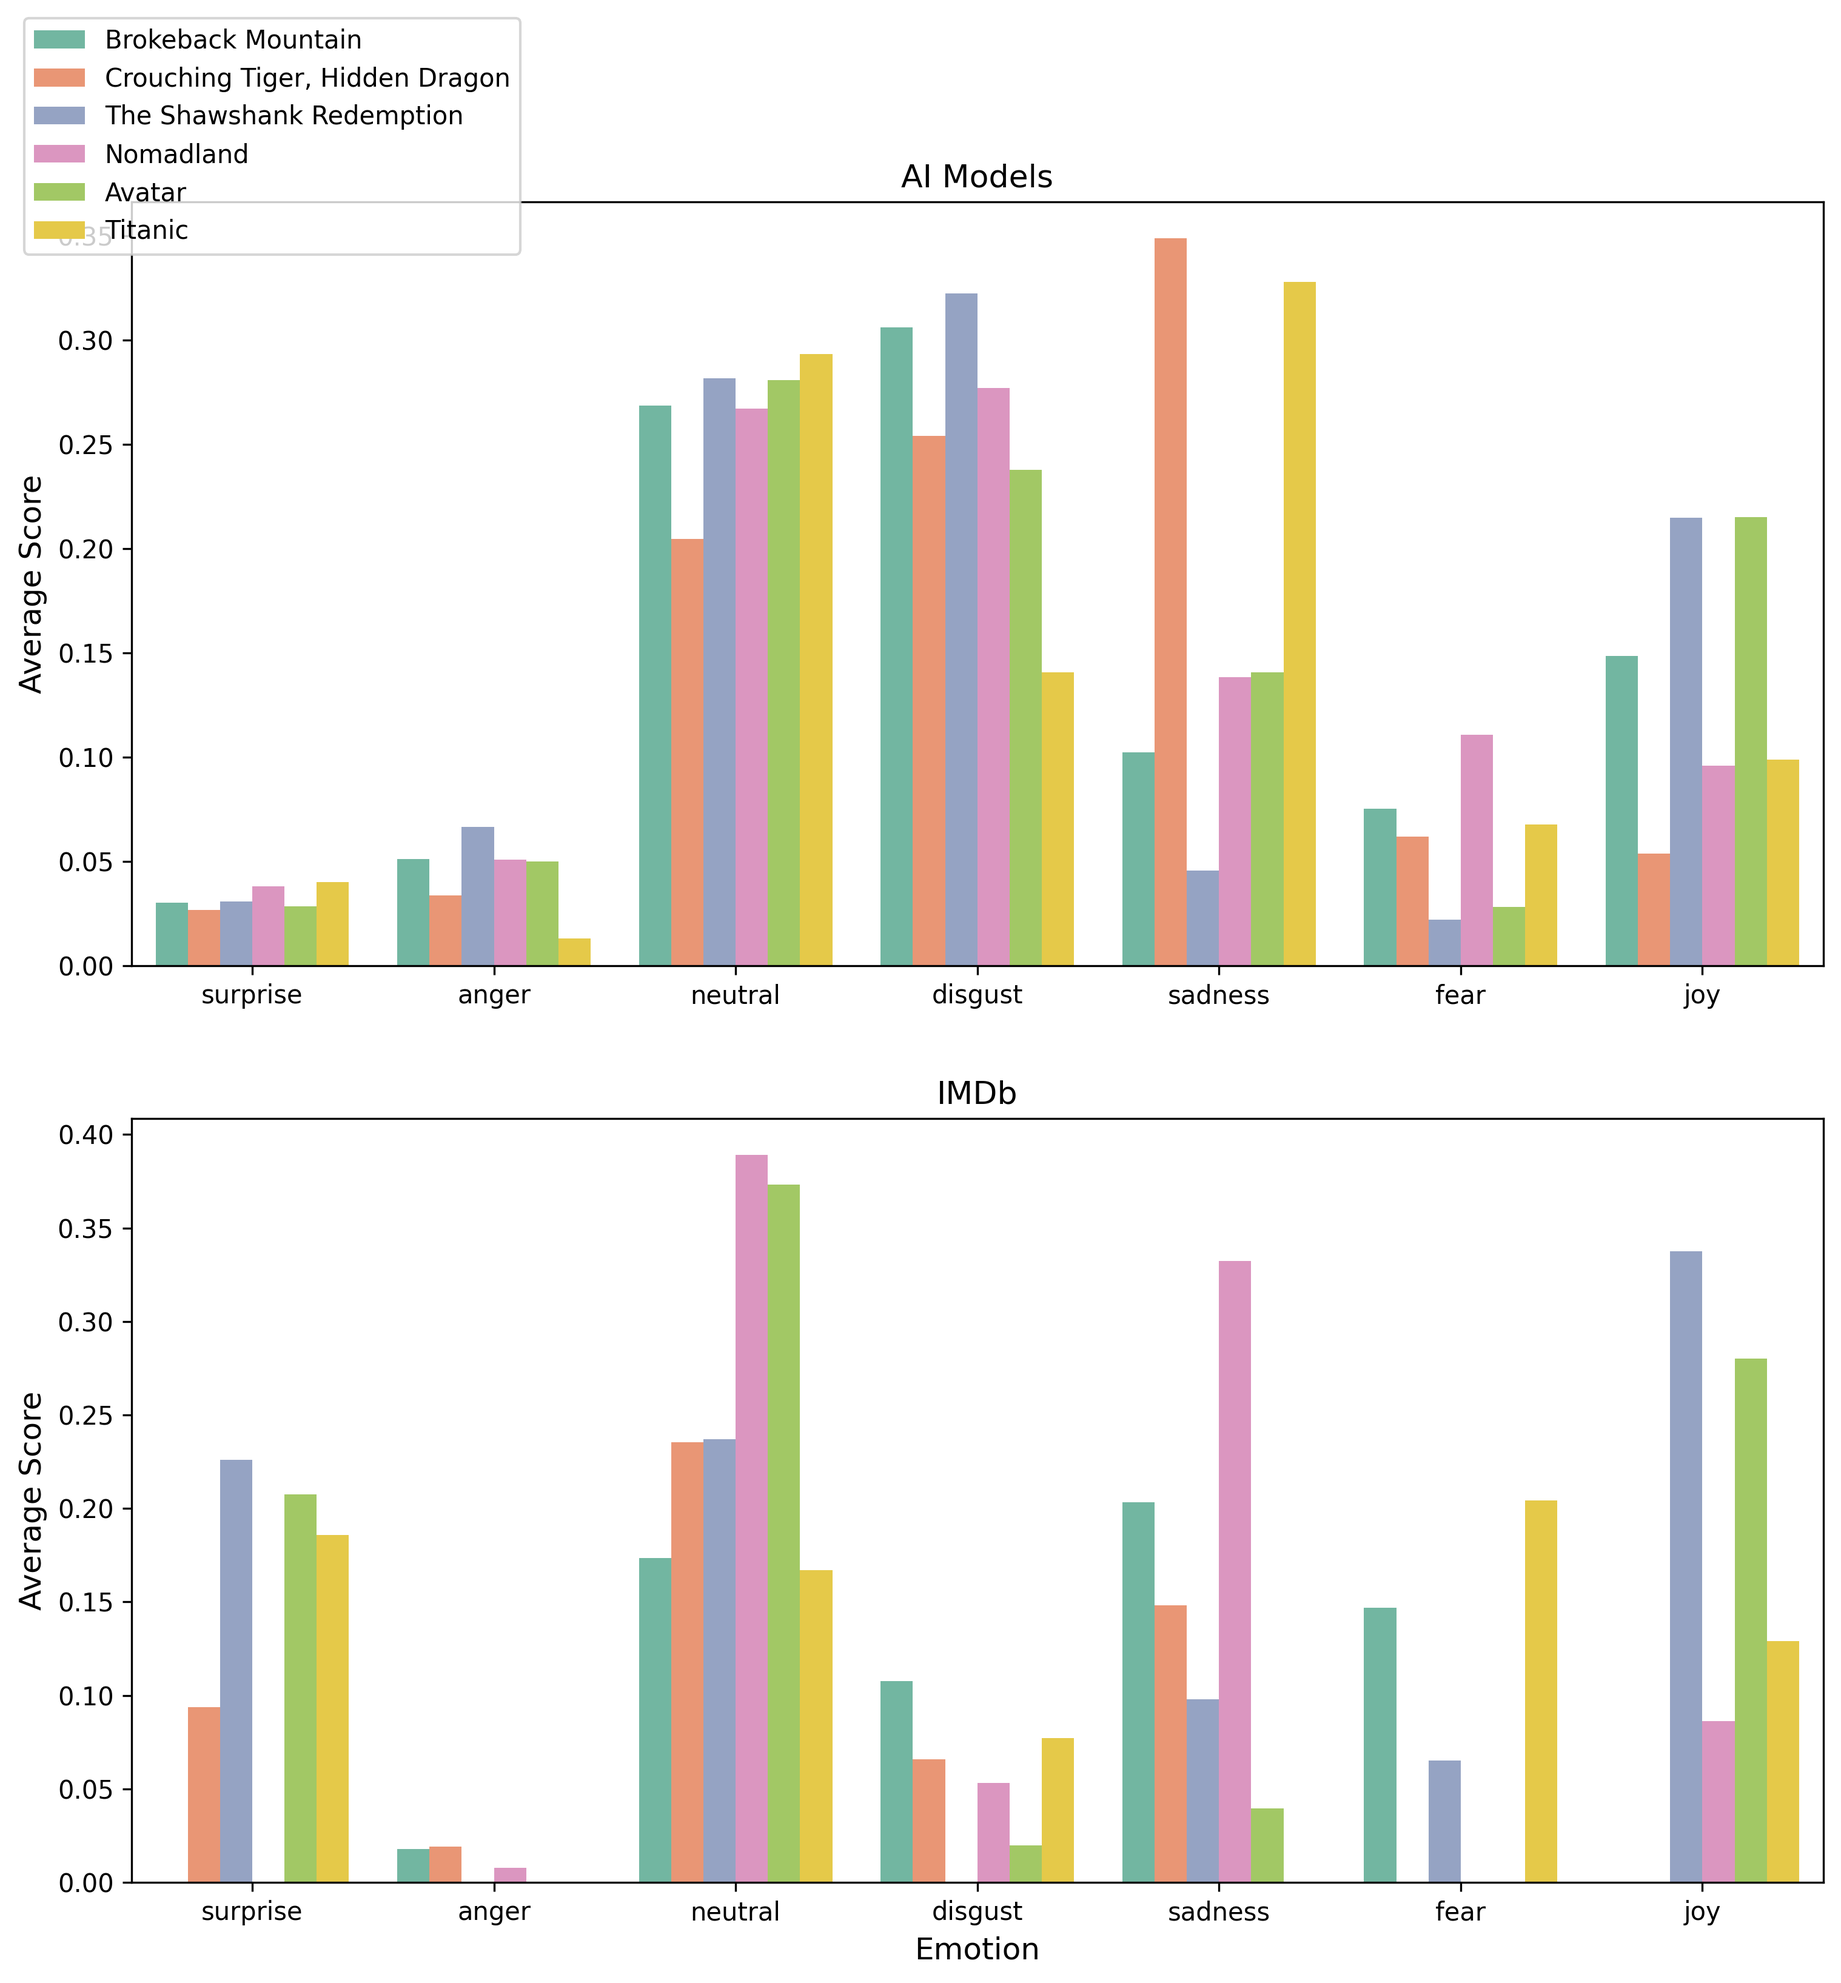
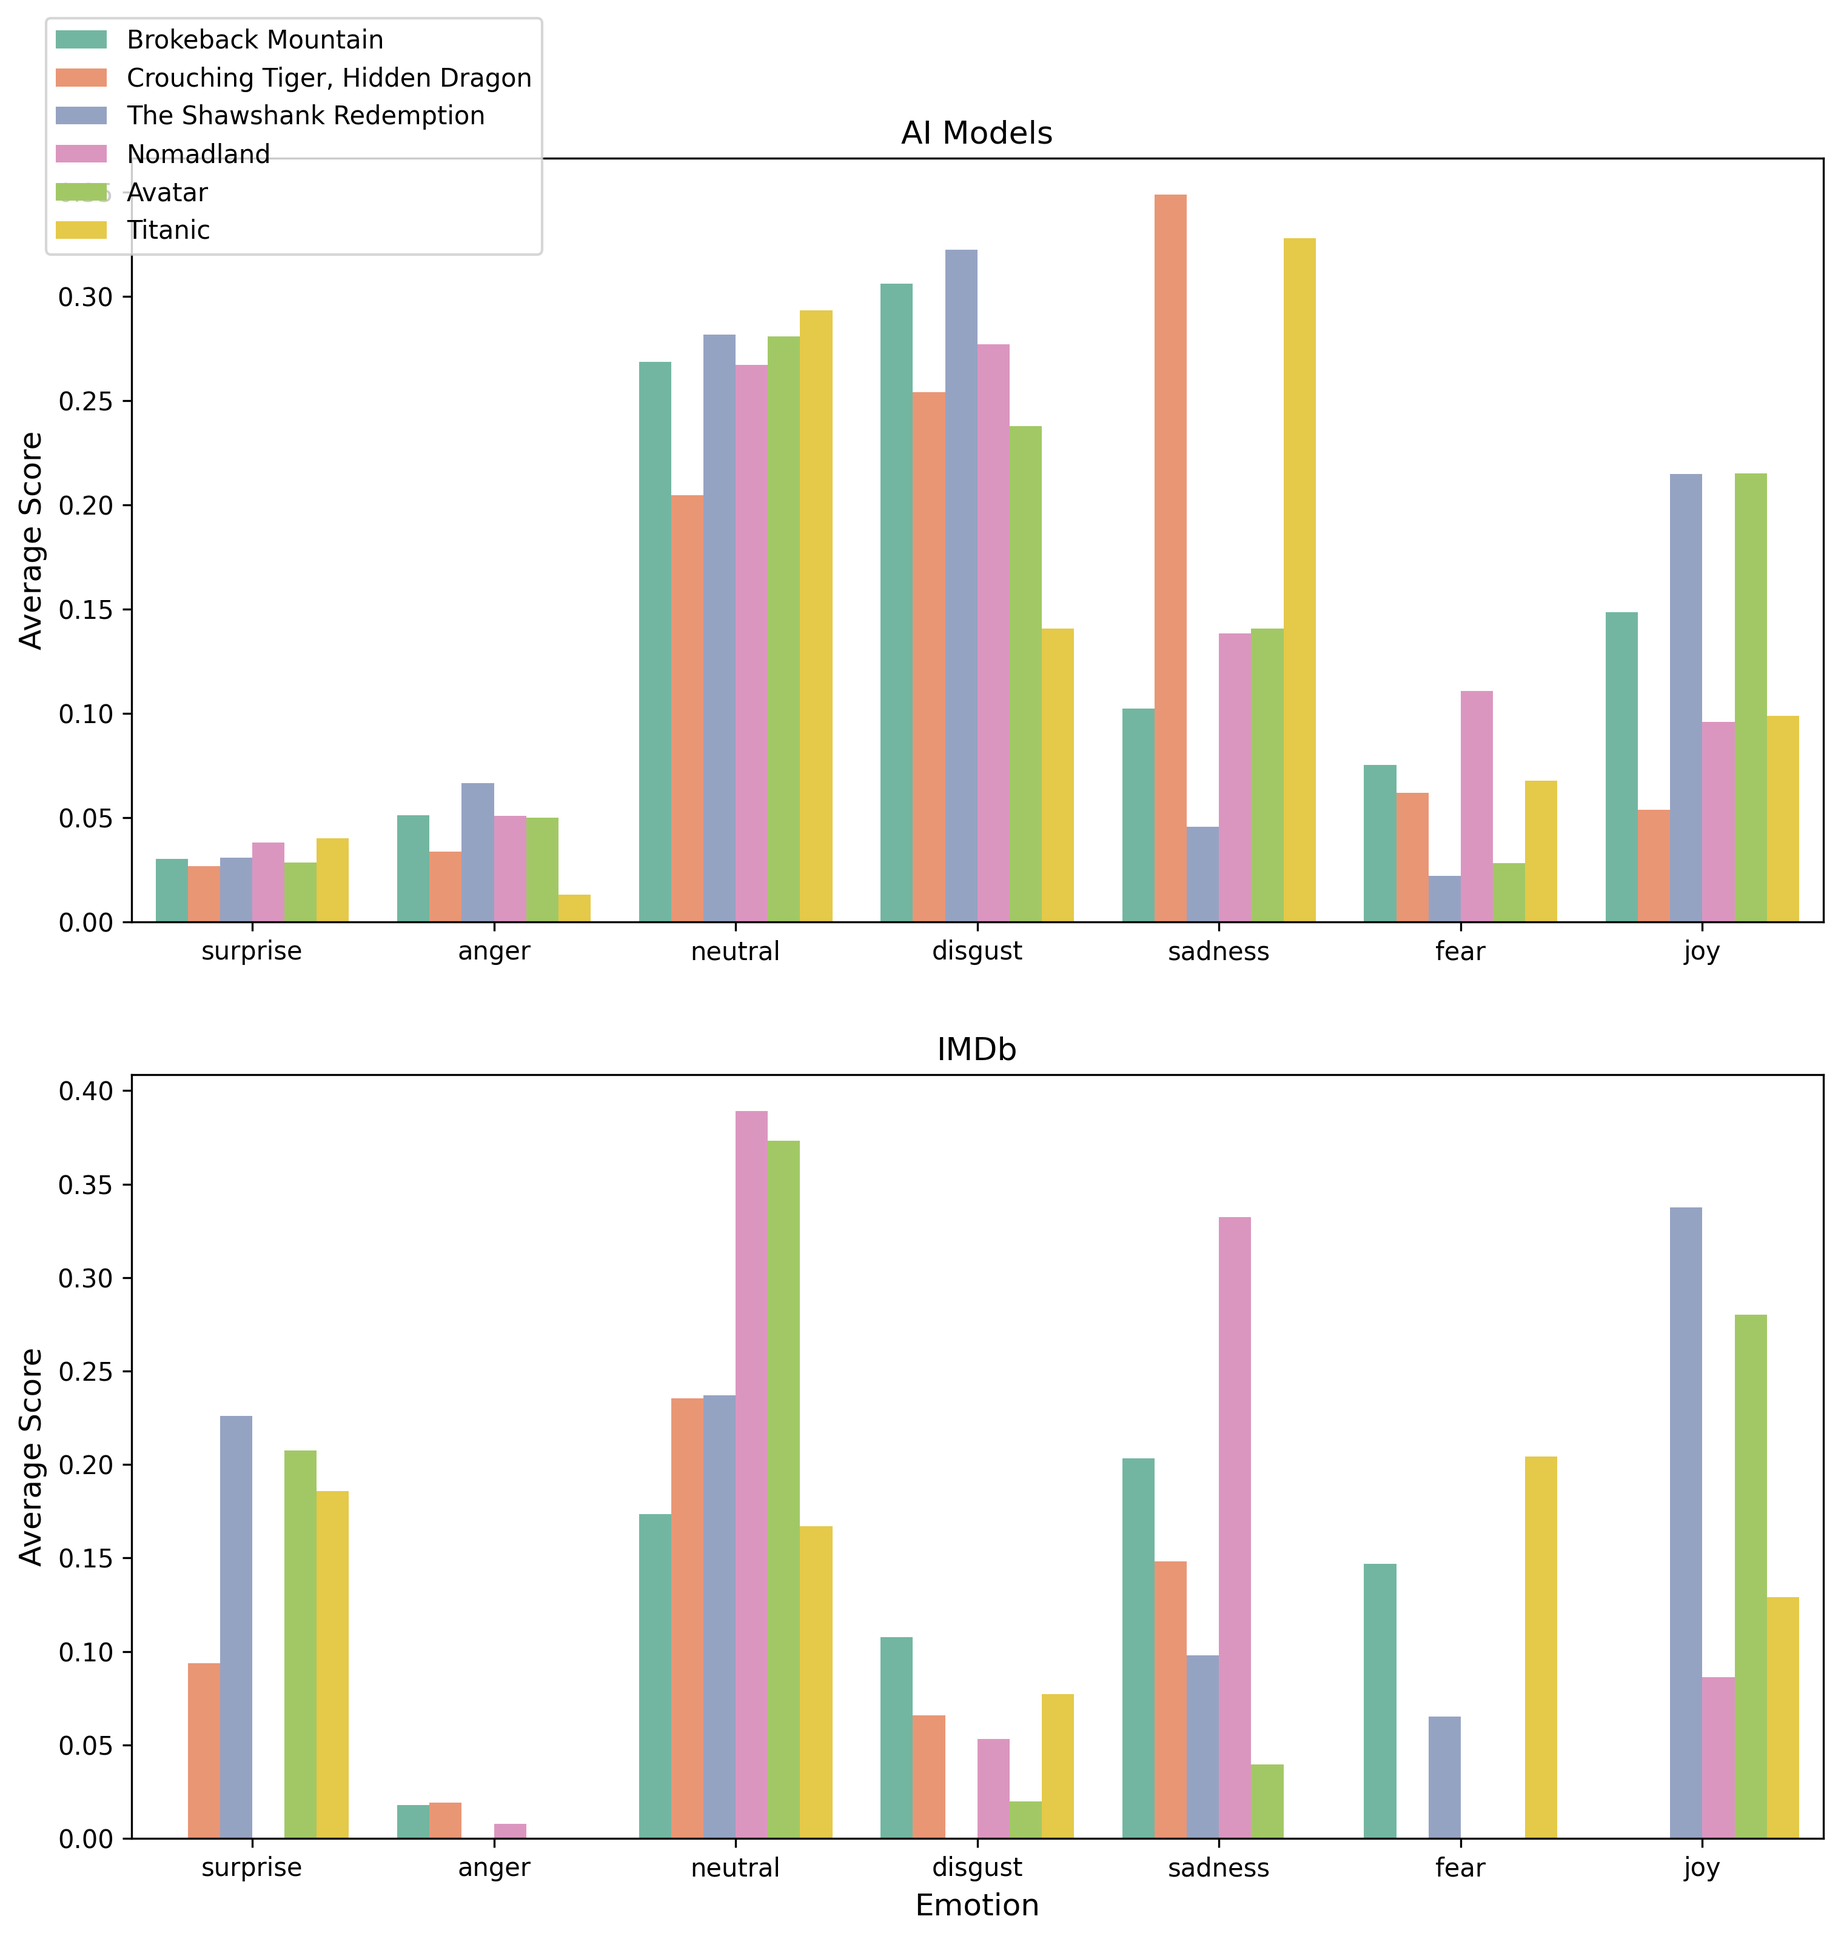
update emotion_scores_by_movie(subplot ai, imdb)

diff --git a/visualization/emotion.py b/visualization/emotion.py
@@ -235,7 +235,7 @@ axes[1].legend().set_visible(False)
 # display shared legend
 handles, labels = axes[1].get_legend_handles_labels()
 fig.legend(handles, labels, loc='upper left',
-           bbox_to_anchor=(0.07, 0.97),
+           bbox_to_anchor=(0.08, 0.95),
            ncol=1)
 
 # show the plot
